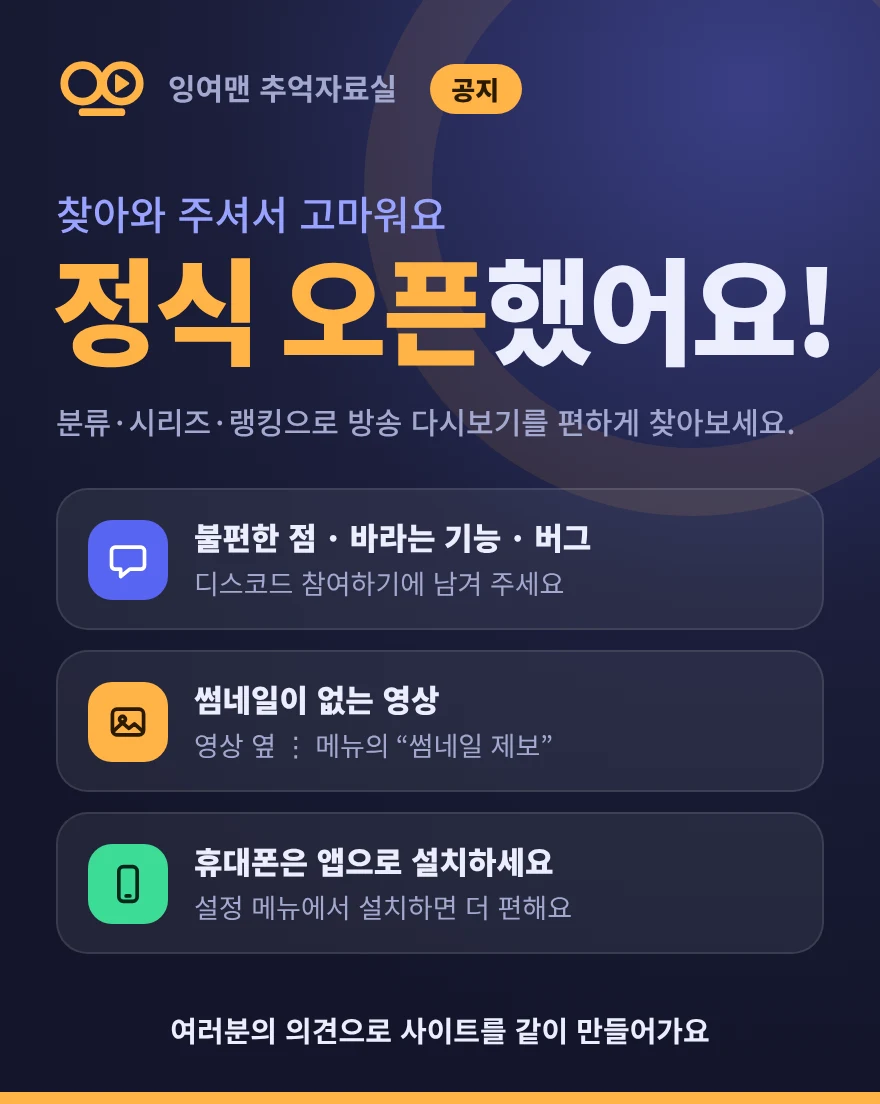
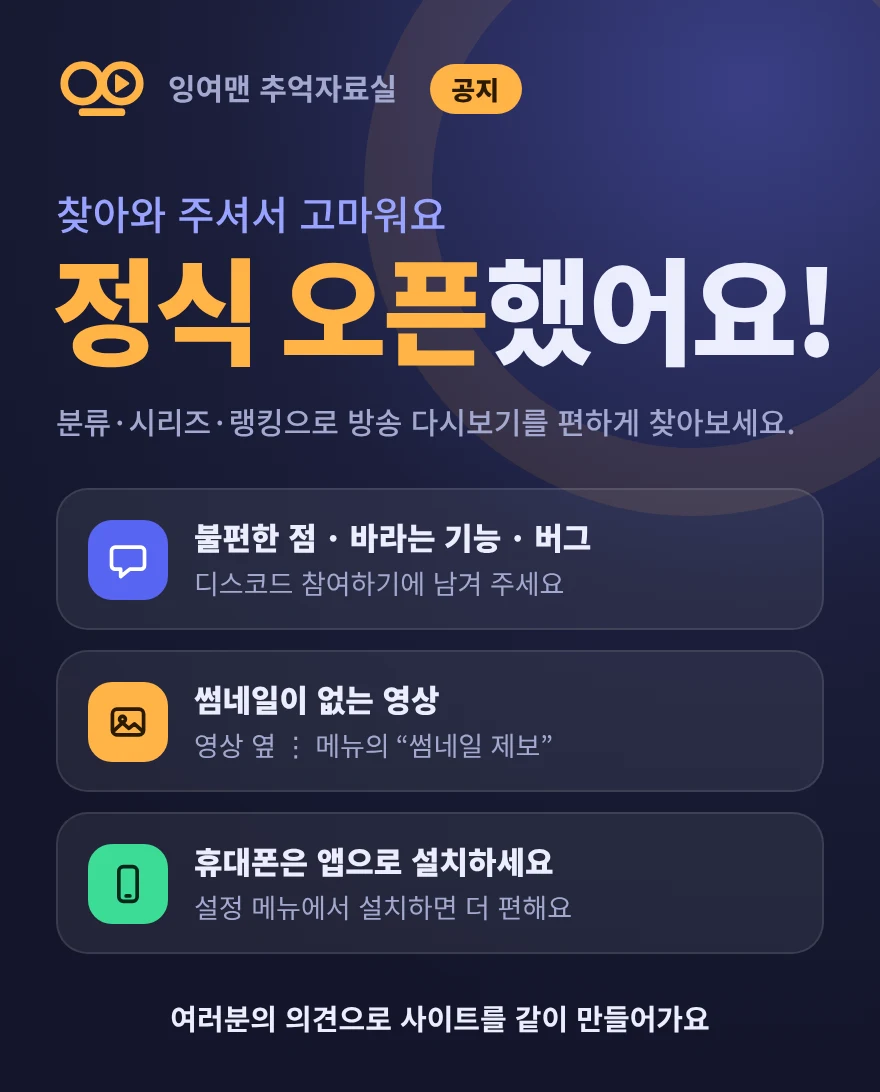
공지 팝업: 끌어서 옮기기, 뒤 화면 사용 가능, 이미지 아래 노란줄 제거, CSS 괄호 오류 수정
Claude-Session: https://claude.ai/code/session_01L38XDA6QLakFbF1aMbt65D

diff --git a/app.js b/app.js
@@ -1303,18 +1303,24 @@
     if (!n || !n.enabled || !text) return;
     const id = String(hash(title + text + (n.link || ""))), day = id + "|" + tnDay();
     const pop = $("noticePop"), de = document.documentElement;
-    const close = () => { pop.hidden = true; document.body.style.overflow = ""; };
+    const close = () => { pop.hidden = true; };
     $("npX").addEventListener("click", close);
     $("npGo").addEventListener("click", close);
     $("npHide").addEventListener("click", () => { store.set("notice_hide", day); close(); toast("오늘은 다시 안 보여드릴게요"); });
-    pop.addEventListener("click", e => { if (e.target === pop) close(); });
     window.closeNotice = close;
+    { const sh = pop.querySelector(".sheet"); let d = null;   // 공지창은 끌어서 옮길 수 있고, 뒤의 사이트도 그대로 쓸 수 있어요
+      const clamp = (l, t) => [Math.max(4, Math.min(innerWidth - sh.offsetWidth - 4, l)), Math.max(4, Math.min(innerHeight - 60, t))];
+      sh.addEventListener("pointerdown", e => { if (e.target.closest("button, a") || (e.pointerType === "mouse" && e.button !== 0)) return; const r = sh.getBoundingClientRect(); d = { x: e.clientX, y: e.clientY, l: r.left, t: r.top, id: e.pointerId }; try { sh.setPointerCapture(e.pointerId); } catch (x) {} sh.classList.add("drag"); });
+      sh.addEventListener("pointermove", e => { if (!d || e.pointerId !== d.id) return; const [l, t] = clamp(d.l + e.clientX - d.x, d.t + e.clientY - d.y); sh.style.left = l + "px"; sh.style.top = t + "px"; });
+      const end = () => { d = null; sh.classList.remove("drag"); };
+      sh.addEventListener("pointerup", end); sh.addEventListener("pointercancel", end);
+      window.addEventListener("resize", () => { if (pop.hidden) return; const [l, t] = clamp(sh.offsetLeft, sh.offsetTop); sh.style.left = l + "px"; sh.style.top = t + "px"; }); }
     const show = () => {
       $("npT").textContent = title;
       const box = $("npD"); box.textContent = "";
       text.split("\n").map(x => x.trim()).filter(Boolean).forEach(x => { const el = document.createElement(x.startsWith("•") ? "div" : "p"); el.className = x.startsWith("•") ? "np-li" : "np-p"; el.textContent = x.startsWith("•") ? x.slice(1).trim() : x; box.appendChild(el); });
       const go = $("npGo"); if (FB && /^https?:\/\//i.test(FB)) { go.href = FB; go.hidden = false; }
-      const open = () => { pop.hidden = false; document.body.style.overflow = "hidden"; $("npX").focus({ preventScroll: true }); };
+      const open = () => { const sh = pop.querySelector(".sheet"); pop.hidden = false; if (!sh.style.left) { const w = sh.offsetWidth, m = innerWidth <= 860; sh.style.left = Math.max(4, m ? (innerWidth - w) / 2 : innerWidth - w - 20) + "px"; sh.style.top = (m ? 56 : 84) + "px"; } };
       if (/^[\w./-]+\.(webp|png|jpe?g)$/i.test(n.image || "")) {   // 공지 이미지가 있으면 글 대신 이미지로 보여줘요 (이미지를 못 불러오면 글로 보여줘요)
         const im = new Image(), el = $("npImg");
         im.onload = () => { el.src = im.src; el.alt = title + ". " + text.replace(/\n+/g, " "); el.hidden = false; pop.querySelector(".sheet").classList.add("has-img"); open(); };

diff --git a/style.css b/style.css
@@ -1150,10 +1150,16 @@ body { padding-left:env(safe-area-inset-left); padding-right:env(safe-area-inset
   .promos .promo-t b { font-size:15.5px; letter-spacing:-.4px; }
   .promos .promo::after { content:"›"; flex:none; font-size:24px; line-height:1; color:rgba(255,255,255,.85); }
 }
-}
 
 /* 공지 팝업 */
-#noticePop { z-index:50; }
+#noticePop.modal { inset:auto; left:0; top:0; width:0; height:0; padding:0; background:none; display:block; pointer-events:none; z-index:28; }
+#noticePop[hidden] { display:none; }
+#noticePop .sheet.np { position:fixed; pointer-events:auto; width:min(400px, calc(100vw - 24px)); max-width:none; max-height:none; box-shadow:0 18px 50px rgba(0,0,0,.5); cursor:grab; touch-action:none; }
+#noticePop .sheet.np.drag { cursor:grabbing; }
+#noticePop .sheet.np button, #noticePop .sheet.np a { touch-action:manipulation; cursor:pointer; }
+.np-grip { display:none; padding:7px 0 6px; text-align:center; font-size:12px; font-weight:600; color:#a3a8cf; background:#1b1e3a; user-select:none; }
+.np.has-img .np-grip { display:block; }
+@media (max-width:860px) { #noticePop .sheet.np { width:min(340px, calc(100vw - 24px)); } }
 .sheet.np { max-width:440px; }
 .np .m-body { padding:26px 24px 22px; }
 .np-k { display:inline-block; padding:3px 10px; border-radius:99px; background:var(--accent); color:var(--on-accent); font-size:12.5px; font-weight:800; }
@@ -1171,7 +1177,7 @@ body { padding-left:env(safe-area-inset-left); padding-right:env(safe-area-inset
 .sheet.np.has-img { overflow:hidden; }
 .np.has-img .np-k, .np.has-img h2, .np.has-img .np-d { display:none; }
 .np.has-img .m-body { padding:14px 16px 16px; }
-@media (max-height:760px) { .np.has-img .np-img { max-height:58dvh; object-fit:cover; object-position:top; } }
+
 
 /* 시리즈 편집 */
 #serEdit { z-index:46; }

diff --git a/index.html b/index.html
@@ -28,7 +28,7 @@
   if (m !== "on" && m !== "off") m = (window.matchMedia && matchMedia("(prefers-reduced-motion: reduce)").matches) ? "off" : "on";
   document.documentElement.setAttribute("data-motion", m); })();
 </script>
-<link rel="stylesheet" href="style.css?v=177">
+<link rel="stylesheet" href="style.css?v=178">
 </head>
 <body>
 <div id="intro" role="dialog" aria-label="잉여맨 추억자료실 소개 화면">
@@ -323,6 +323,7 @@
 
 <div class="modal" id="noticePop" hidden>
   <div class="sheet np" role="dialog" aria-modal="true" aria-labelledby="npT">
+    <div class="np-grip" id="npGrip" aria-hidden="true">⠿ 끌어서 옮길 수 있어요</div>
     <img class="np-img" id="npImg" alt="" hidden>
     <div class="m-body">
       <span class="np-k">공지</span>
@@ -473,9 +474,9 @@
 
 <div class="ach-pop" id="achPop" role="status" hidden><span class="ach-ic"><svg viewBox="0 0 24 24"><path d="M8 4h8v5a4 4 0 0 1-8 0zM8 6H5v1a3 3 0 0 0 3 3M16 6h3v1a3 3 0 0 1-3 3M12 13v4M8.5 20h7M10 17h4"/></svg></span><span class="ach-tx"><small>도전과제 달성!</small><b id="achPopT"></b><i id="achPopD"></i></span></div>
 <div id="toast" role="status"></div>
-<script src="config.js?v=177"></script>
-<script src="app.js?v=177"></script>
-<script src="mobile.js?v=177"></script>
-<script src="tour.js?v=177"></script>
+<script src="config.js?v=178"></script>
+<script src="app.js?v=178"></script>
+<script src="mobile.js?v=178"></script>
+<script src="tour.js?v=178"></script>
 </body>
 </html>

diff --git a/mobile.js b/mobile.js
@@ -7,7 +7,7 @@
   var $ = function (id) { return document.getElementById(id); };
 
   /* ── 1) 뒤로가기 ── */
-  var ids = ["modal", "gacha", "xfer", "imp", "dcChat", "repModal", "admModal", "noticePop", "serEdit"];
+  var ids = ["modal", "gacha", "xfer", "imp", "dcChat", "repModal", "admModal", "serEdit"];
   var els = ids.map($).filter(Boolean), pushed = 0, skip = 0, skipT = 0;
   var openN = function () { return els.filter(function (e) { return !e.hidden; }).length; };
   var onOv = function () { return !!(history.state && history.state.ov); };
